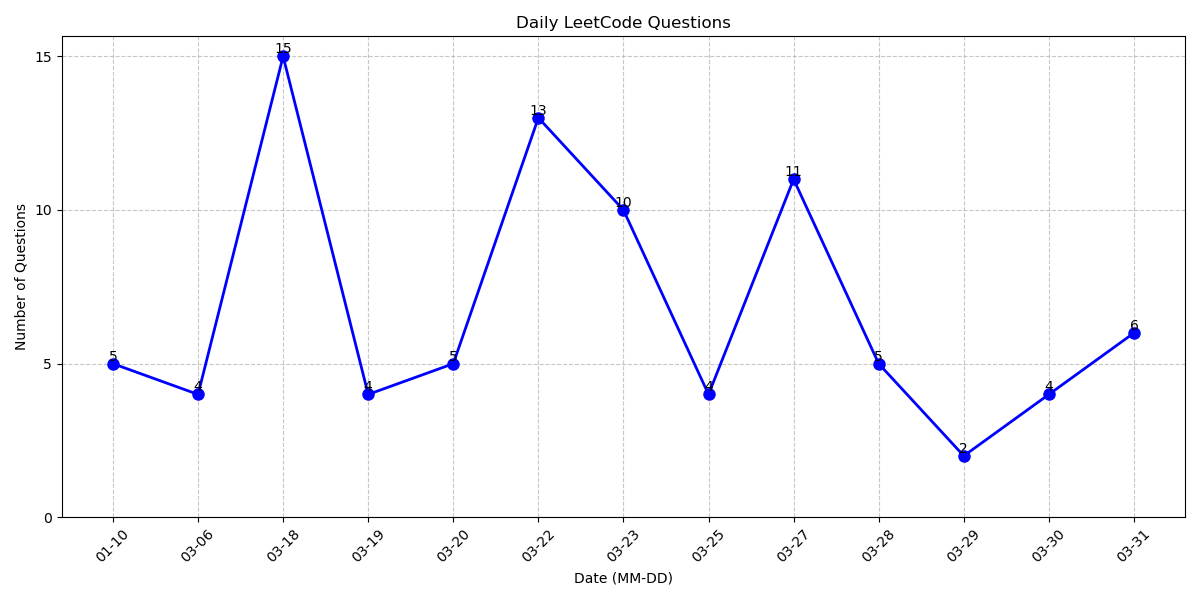
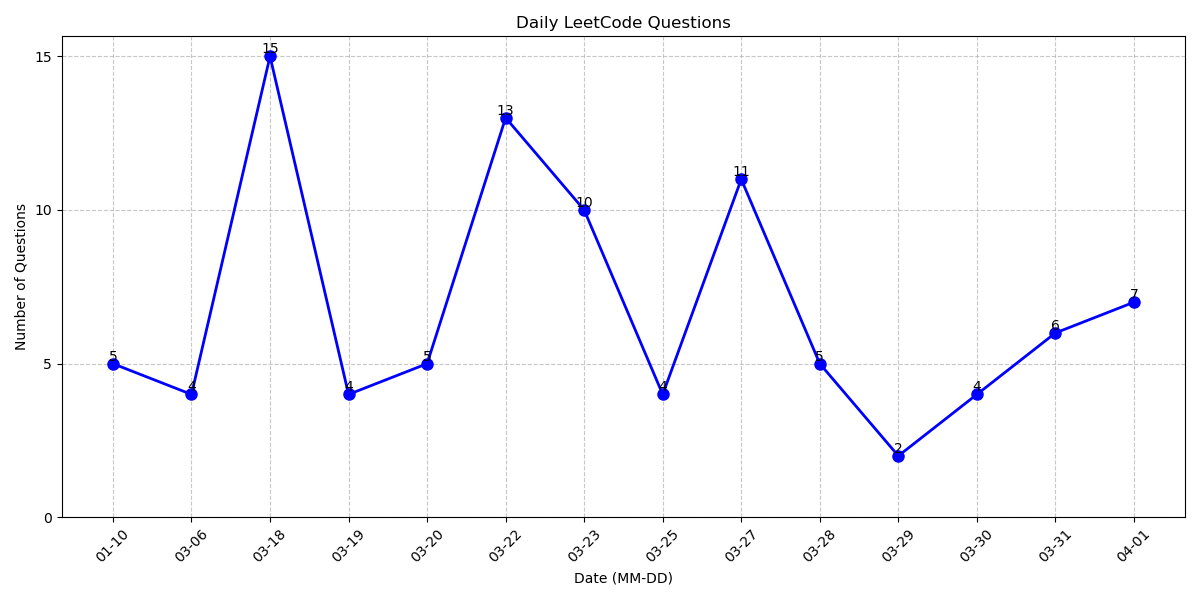
4/1 pratices

diff --git a/Tree/sameAncestor.cpp b/Tree/sameAncestor.cpp
@@ -1,0 +1,37 @@
+// hint
+/**
+ * Definition for a binary tree node.
+ * struct TreeNode {
+ *     int val;
+ *     TreeNode *left;
+ *     TreeNode *right;
+ *     TreeNode() : val(0), left(nullptr), right(nullptr) {}
+ *     TreeNode(int x) : val(x), left(nullptr), right(nullptr) {}
+ *     TreeNode(int x, TreeNode *left, TreeNode *right) : val(x), left(left),
+ * right(right) {}
+ * };
+ */
+
+/*
+    1. 回想BT的概念就能迎刃而解
+*/
+class Solution {
+  public:
+	TreeNode *lowestCommonAncestor(TreeNode *root, TreeNode *p, TreeNode *q) {
+		return dfs(root, p, q);
+	}
+
+  private:
+	TreeNode *dfs(TreeNode *root, TreeNode *p, TreeNode *q) {
+		// p, q must be left
+		if (p->val < root->val && q->val < root->val) {
+			return dfs(root->left, p, q);
+		}
+		// p, q must be right
+		else if (p->val > root->val && q->val > root->val) {
+			return dfs(root->right, p, q);
+		} else {
+			return root;
+		}
+	}
+};

diff --git a/LinkList/duplicateNumber.cpp b/LinkList/duplicateNumber.cpp
@@ -1,0 +1,30 @@
+// solution
+/*
+    1. 這題解法將array當成linklist 去運作idx=nums[idx] 就是 node=node->next
+   詳閱readme
+    2. 另一解法為將遇到的num[num[i]] 設為negative紀錄有遇到
+    3. hashmap time complexity為O(1) 但space complexity O(n)
+*/
+class Solution {
+  public:
+	int findDuplicate(vector<int> &nums) {
+		int slow = 0, fast = 0;
+
+		// find interception
+		while (true) {
+			slow = nums[slow];
+			fast = nums[nums[fast]];
+			if (slow == fast)
+				break;
+		}
+
+		// find start point, P=X
+		int slow2 = 0;
+		while (true) {
+			slow = nums[slow];
+			slow2 = nums[slow2];
+			if (slow == slow2)
+				return slow;
+		}
+	}
+};

diff --git a/Array&Hashing/LongestConsecutiveSeq.cpp b/Array&Hashing/LongestConsecutiveSeq.cpp
@@ -1,0 +1,26 @@
+// solution
+/*
+1. 目標在於尋找consecutive number的start point
+2. 一但找到start point, 就去計算consecutive length
+3. 乍看之下是O(n^2) 但每個element只會visit一次
+*/
+class Solution {
+  public:
+	int longestConsecutive(vector<int> &nums) {
+		unordered_set<int> num_set(nums.begin(), nums.end());
+		int max_cnt = 0;
+		for (int &num : nums) {
+			// this is start point, calculate consecutive number
+			if (num_set.find(num - 1) == num_set.end()) {
+				int len = 0;
+				while (num_set.find(num) != num_set.end()) {
+					++len;
+					++num;
+				}
+				if (len > max_cnt)
+					max_cnt = len;
+			}
+		}
+		return max_cnt;
+	}
+};

diff --git a/TwoPointer/mergeStr.cpp b/TwoPointer/mergeStr.cpp
@@ -1,0 +1,26 @@
+// proficient
+class Solution {
+  public:
+	string mergeAlternately(string word1, string word2) {
+		string res;
+		int i1 = 0;
+		int i2 = 0;
+		int n1 = word1.length();
+		int n2 = word2.length();
+		while (i1 < n1 && i2 < n2) {
+			res.push_back(word1[i1]);
+			res.push_back(word2[i2]);
+			++i1;
+			++i2;
+		}
+		while (i1 < n1) {
+			res.push_back(word1[i1]);
+			++i1;
+		}
+		while (i2 < n2) {
+			res.push_back(word2[i2]);
+			++i2;
+		}
+		return res;
+	}
+};

diff --git a/update_readme.py b/update_readme.py
@@ -38,6 +38,8 @@ def get_folder_contents(root_dir):
                     problem_name = f.replace(".cpp", "")
                     problem_name = problem_name.replace(".c", "")
                     files.append((problem_name, status))
+            files.sort(key=lambda x: ["❌", "📝", "✅"].index(x[1]))
+
             folder_contents[folder] = files
     return folder_contents
 

diff --git a/BitWise/reverseInt.cpp b/BitWise/reverseInt.cpp
@@ -1,0 +1,21 @@
+// hint
+/*
+    記住x10 就可以前往下一個digit
+*/
+
+class Solution {
+  public:
+	int reverse(int x) {
+		long res = 0;
+		while (x != 0) {
+			int digit = x % 10;
+			x /= 10;
+
+			res = (res * 10) + digit;
+
+			if (res > INT_MAX || res < INT_MIN)
+				return 0;
+		}
+		return res;
+	}
+};

diff --git a/TwoPointer/reverseStr.cpp b/TwoPointer/reverseStr.cpp
@@ -1,0 +1,15 @@
+// proficient
+class Solution {
+  public:
+	void reverseString(vector<char> &s) {
+		int r = s.size() - 1;
+		int l = 0;
+		while (l <= r) {
+			char tmp = s[l];
+			s[l] = s[r];
+			s[r] = tmp;
+			++l;
+			--r;
+		}
+	}
+};

diff --git a/Graph/islandTreasure.cpp b/Graph/islandTreasure.cpp
@@ -1,3 +1,4 @@
+// solution
 #include <algorithm>
 #include <iostream>
 #include <queue>

diff --git a/README.md b/README.md
@@ -6,6 +6,7 @@
 - 📝 maxDiameter
 - 📝 invertBT
 - 📝 remove
+- 📝 sameAncestor
 - 📝 SubTreeOfAnotherTree
 - 📝 SameTree
 - 📝 BinaryTree
@@ -24,6 +25,8 @@
 - 📝 waterContainer
 - 📝 twoSum2
 - 📝 validParlindrome
+- ✅ reverseStr
+- ✅ mergeStr
 
 ## Interval
 - 📝 meetingTime
@@ -37,9 +40,9 @@
 - 📝 BinarySearch
 
 ## Graph
+- ❌ islandTreasure
 - 📝 cloneGraph
 - 📝 isoLand
-- 📝 islandTreasure
 - 📝 maxLand
 - 📝 rottingFruit
 
@@ -55,6 +58,7 @@
 - 📝 BuySellStock
 
 ## Array&Hashing
+- ❌ LongestConsecutiveSeq
 - 📝 concateArr
 - 📝 longCommonStr
 - 📝 ValidAnagram
@@ -86,15 +90,13 @@
 
 ## Stack&Queue
 - 📝 ValidParentheses
-- ✅ baseBallGame
 - 📝 ReversePolishNotation
 - 📝 generateParentheses
 - 📝 MinStack
-
-## Binary
-- 📝 reversebit
+- ✅ baseBallGame
 
 ## LinkList
+- ❌ duplicateNumber
 - 📝 basic
 - 📝 merge
 - 📝 138opyWithRandomPointer
@@ -107,6 +109,7 @@
 ## BitWise
 - 📝 reversebit
 - 📝 getSum
+- 📝 reverseInt
 - 📝 SingleNum
 - 📝 #OneBits
 - 📝 CountingBits
@@ -118,11 +121,11 @@
 - 📝 houseRobber
 - 📝 houseRobber2
 - 📝 climbStair
-- ✅ uniquePath
 - 📝 minCostClimb
+- ✅ uniquePath
 
 ## Statistics
-Current total questions: 87
+Current total questions: 92
 
 <img src="chart.png" alt="questions bar chart" width="500">
 

diff --git a/LinkList/README.md b/LinkList/README.md
@@ -1,0 +1,5 @@
+# LinkList
+
+## Find the Duplicate Number
+
+<img src="linklist_circle.jpeg" alt="questions bar chart" width="500">
